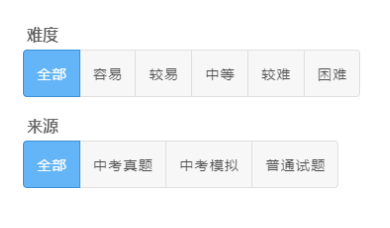
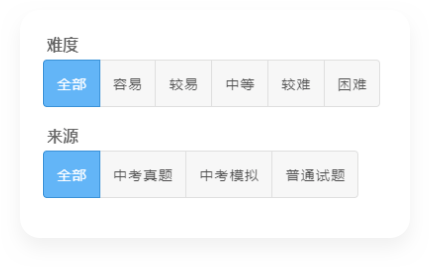
定稿

diff --git a/pages/schoolUse.vue b/pages/schoolUse.vue
@@ -50,13 +50,13 @@
         <div class="schoolUseThreeContentTop">
           <div class="schoolUseThreeContentTopOne"></div>
           <div class="schoolUseThreeContentTopTwo">教学得力帮手</div>
-          <div class="schoolUseThreeContentTopThree">TEACHING HELPER</div>
+          <div class="schoolUseThreeContentTopThree"></div>
         </div>
 
         <div class="schoolUseThreeContentBottom">
           <div class="schoolUseThreeContentBottomItem">
             <div class="schoolUseThreeContentBottomItemTop">
-              <img src="../assets/schoolCutPic/校园_智能组卷.png" style="border-radius:20px;cursor:pointer" @click="showHelpPicOne = true"/>
+              <img src="../assets/schoolCutPic/校园_智能组卷.png" style="border-radius:20px;cursor:pointer;position:absolute;left:-20px;top:-9px" @click="showHelpPicOne = true"/>
               <img src="../assets/schoolCutPic/校园_智能组卷-大.svg" style="border-radius:20px;position:absolute;top:-238px;left:-24px;cursor:pointer" v-if="showHelpPicOne" @click="showHelpPicOne = false"/>
             </div>
             <div class="schoolUseThreeContentBottomItemTitle">智能组卷</div>
@@ -65,8 +65,8 @@
 
           <div class="schoolUseThreeContentBottomItemTwo">
             <div class="schoolUseThreeContentBottomItemTop">
-              <img src="../assets/schoolCutPic/校园_布置作业.svg" style="border-radius:20px;cursor:pointer"  @click="showHelpPicTwo = true"/>
-              <img src="../assets/schoolCutPic/校园_布置作业-大.svg" style="border-radius:20px;position:absolute;top:-238px;left:-24px;cursor:pointer" v-if="showHelpPicTwo" @click="showHelpPicTwo = false"/>
+              <img src="../assets/schoolCutPic/校园_布置作业.png" style="border-radius:20px;cursor:pointer;position:absolute;left:-20px;top:-9px"  @click="showHelpPicTwo = true"/>
+              <img src="../assets/schoolCutPic/校园_布置作业-大.png" style="border-radius:20px;position:absolute;top:-238px;left:-24px;cursor:pointer" v-if="showHelpPicTwo" @click="showHelpPicTwo = false"/>
             </div>
             <div class="schoolUseThreeContentBottomItemTitle">布置作业</div>
             <div class="schoolUseThreeContentBottomItemGang"></div>
@@ -74,8 +74,8 @@
 
           <div class="schoolUseThreeContentBottomItemThree">
             <div class="schoolUseThreeContentBottomItemTop">
-              <img src="../assets/schoolCutPic/校园_学生统计.svg" style="border-radius:20px;cursor:pointer"  @click="showHelpPicThree = true"/>
-              <img src="../assets/schoolCutPic/校园_学生统计-大.svg" style="border-radius:20px;position:absolute;top:-238px;left:-24px;cursor:pointer" v-if="showHelpPicThree" @click="showHelpPicThree = false"/>
+              <img src="../assets/schoolCutPic/校园_学生统计.png" style="border-radius:20px;cursor:pointer;position:absolute;left:-20px;top:-9px"  @click="showHelpPicThree = true"/>
+              <img src="../assets/schoolCutPic/校园_学生统计-大.png" style="border-radius:20px;position:absolute;top:-238px;left:-24px;cursor:pointer" v-if="showHelpPicThree" @click="showHelpPicThree = false"/>
             </div>
             <div class="schoolUseThreeContentBottomItemTitle">学生统计</div>
             <div class="schoolUseThreeContentBottomItemGang"></div>
@@ -90,7 +90,6 @@
           <div class="schoolUseForthContentTopGang"></div>
           <div class="schoolUseForthContentTopTitle">学校管理</div>
           <div class="schoolUseForthContentTopSmallTitle">
-            CAMPUS MANAGEMENT SOLUTION
           </div>
         </div>
 
@@ -103,8 +102,8 @@
             <div style="position:absolute;top:-347px;left:293px;cursor:pointer" @click="showPicOne = true"><img src="../assets/schoolUseIcon.png"/></div>
             <div style="position:absolute;top:-347px;left:776px;cursor:pointer" @click="showPicTwo = true"><img src="../assets/schoolUseIcon.png"/></div>
             
-            <div style="position:absolute;top:-683px;left:134px;cursor:pointer" v-if="showPicOne" @click="showPicOne = false"><img src="../assets/schoolCutPic/classManage.svg"/></div>
-            <div style="position:absolute;top:-683px;left:615px;cursor:pointer" v-if="showPicTwo" @click="showPicTwo = false"><img src="../assets/schoolCutPic/stuAdmin.svg"/></div>
+            <div style="position:absolute;top:-683px;left:134px;cursor:pointer" v-if="showPicOne" @click="showPicOne = false"><img src="../assets/schoolCutPic/生成班级管理.png"/></div>
+            <div style="position:absolute;top:-683px;left:615px;cursor:pointer" v-if="showPicTwo" @click="showPicTwo = false"><img src="../assets/schoolCutPic/生成学生账号.png"/></div>
 
             <div style="position:absolute;top:-171px;left:275px;color:rgba(64, 158, 255, 1);font-size:20px">生成科任老师账号</div>
             <div style="position:absolute;top:-170px;left:760px;text-align:center;color:rgba(64, 158, 255, 1);font-size:20px">上传花名册，<div> 一键生成学生账号</div></div>
@@ -290,7 +289,7 @@ export default {
       .schoolUseThreeContentTopThree {
         font-size: 20px;
         color:#fff;
-
+        height: 30px;
       }
     }
 
@@ -384,6 +383,7 @@ export default {
       }
 
       .schoolUseForthContentTopSmallTitle {
+        height: 40px;
         color: rgba(64, 158, 255, 0.2);
         font-size: 28px;
         margin:5px 0px;

diff --git a/pages/dynamic.vue b/pages/dynamic.vue
@@ -7,7 +7,7 @@
           <div class="banner-1">
           <!-- <img src="../assets/pic1.jpg" width="1200px" style="position:absolute;bottom:-159px;border-radius:15px">
            -->
-           <banner :bannerList="bannerList"/>
+           <banner/>
           </div>
         </v-card>
       </div>
@@ -16,7 +16,7 @@
     <!-- 动态列表部分 -->
     <div style="width:1200px">
       <!-- 列表标题 -->
-      <div style="border-bottom:1px solid rgb(64, 158, 255, 0.3);padding-bottom:50px;margin-bottom:70px">
+      <div style="border-bottom:1px solid rgb(64, 158, 255, 0.3);padding-bottom:30px;margin-bottom:50px">
         <img src="../assets/msgList.png" width="264px">
       </div>
 
@@ -24,10 +24,12 @@
       <div class="listContent" v-for="(item,index) in dtList" :key="index" @click="jumpLink(item)">
         <div style="display:flex;position:relative;width:1100px;">
           <!-- <img src="../assets/smallPics.png" style="margin-right:25px;z-index:10;width:210px"> -->
-          <img src="item.dynamicImgUrl" style="margin-right:25px;z-index:10;width:210px">
-          <!-- 阴影 -->
-          <div style="position:absolute;left:6px;top:13px;width:214px;height:86px;background:#ebf5ff;border-radius:5px">
+          <div style="width:210px;z-index:2;margin-right:25px;height:95px">
+            <img :src="item.dynamicImgUrl" style="width:100%;height:100%" v-if="item.dynamicImgUrl">
           </div>
+          <!-- 阴影 -->
+          <div style="position:absolute;left:6px;top:20px;width:214px;height:86px;background:#ebf5ff;border-radius:5px"></div>
+
           <div style="display:flex;justify-content:space-around;flex-direction:column;">
             <div>
               <span class="listTitle">{{item.dynamicTitle}}</span>
@@ -35,6 +37,7 @@
                 {{ item.dynamicType == 1?'新闻':'公告' }}
               </span>
             </div>
+            
             <div class="listSmallTitle">{{item.dynamicContent | ellipsis}}</div>
           </div>
         </div>
@@ -101,9 +104,9 @@ export default {
         page: this.curPage,
         limit: this.limit
       }
-      const res = await http.get('/getDynamicList', {params:model})
-      // console.log(res)
-      this.dtList = res.data.datas
+      const res = await http.get('/api-generator/website/dynamic/list', {params:model})
+      console.log(res)
+      this.dtList = res.data.data
       this.page = res.data.page
     },
     cutTime (time) {
@@ -185,7 +188,7 @@ export default {
 .listContent {
   display:flex;
   justify-content:space-between;
-  margin-bottom:80px;
+  margin-bottom:60px;
 }
 .listContent:hover {
   cursor: pointer;

diff --git a/components/contactMsg.vue b/components/contactMsg.vue
@@ -67,8 +67,8 @@
 </template>
 
 <script>
-// import http from '../plugins/axios'
-import http from 'axios'
+import http from '../plugins/axios'
+// import http from 'axios'
 export default {
   data () {
     return {
@@ -93,14 +93,17 @@ export default {
     
     // 提交信息事件
     sumbitMsg () {
-      if (this.realName.length > 10 || this.realName.length === 0) {
+      if (this.realName.length > 10 || !this.realName.length) {
         this.text = '请输入0~10位的姓名'
         this.snackbar = true
         return
       }
 
-      if (this.email.length === 0) {
-        this.text = '请输入您的邮箱'
+      // 邮箱限制
+      const emailTest = /.+@.+\..+/.test(this.email)
+
+      if (!this.email.length || !emailTest) {
+        this.text = '请输入正确的邮箱'
         this.snackbar = true
         return
       }
@@ -123,25 +126,15 @@ export default {
         messageEmail: this.email,
         messageContent: this.userMsg
       }
-
-      this.realName = ''
-      this.email = ''
-      this.userMsg = ''
       
-      this.$emit('submitMsg')
-      
-      http.post('/addMessage', model).then(res => {
-s        // console.log(res)
-        // if (res.data.respCode === 0) {
-        //   this.realName = ''
-        //   this.email = ''
-        //   this.userMsg = ''
+      http.post('/api-generator/website/message', model).then(res => {
+        if (!res.data.respCode) {
+          this.realName = ''
+          this.email = ''
+          this.userMsg = ''
 
-        //   this.snackbar = true
-        //   this.color = 'green'
-        //   this.text = '提交成功'
-        // this.$emit('closeDialog')
-        // }
+          this.$emit('submitMsg')
+        }
       })
     }
   }

diff --git a/pages/index.vue b/pages/index.vue
@@ -67,7 +67,7 @@
             <div class="indexFifthContentRightTop">
               <div class="indexFifthContentRightTopOne"></div>
               <div class="indexFifthContentRightTopTwo">TI智能辅导系统</div>
-              <div class="indexFifthContentRightTopThree">TUTOR INTELLIGENCE</div>
+              <!-- <div class="indexFifthContentRightTopThree">TUTOR INTELLIGENCE</div> -->
             </div>
 
             <div class="indexFifthContentRightBottom">
@@ -112,8 +112,8 @@
       <div class="indexForth">
         <div class="indexForthContent">
           <div class="indexForthContentTop"></div>
-          <div class="indexForthContentTitle">选择数学工具，就要高效的</div>
-          <div class="indexForthContentSmallTitle">EFFICIENT MATHEMATICAL TOOLS</div>
+          <div class="indexForthContentTitle">高效数学学习工具</div>
+          <!-- <div class="indexForthContentSmallTitle">EFFICIENT MATHEMATICAL TOOLS</div> -->
           <div>
             <indexTools />
           </div>
@@ -396,6 +396,7 @@ export default {
         font-family: PMZD;
         color: rgba(64, 158, 255, 1);
         font-size: 35px;
+        margin-bottom: 50px;
       }
 
       .indexForthContentSmallTitle {
@@ -431,6 +432,7 @@ export default {
         display: flex;
         align-items: center;
         flex-direction: column;
+        height: 190px;
 
         .indexFifthContentRightTopOne {
           background:#409EFF;

diff --git a/pages/familyUse.vue b/pages/familyUse.vue
@@ -49,8 +49,8 @@
       <div class="familyUseThreeContent">
         <div class="familyUseThreeContentTop">
           <div class="familyUseThreeContentTopOne"></div>
-          <div class="familyUseThreeContentTopTwo">选择数学工具，就要高效的</div>
-          <div class="familyUseThreeContentTopThree">EFFICIENT</div>
+          <div class="familyUseThreeContentTopTwo">高效数学学习工具</div>
+          <!-- <div class="familyUseThreeContentTopThree">EFFICIENT</div> -->
         </div>
 
         <div class="familyUseThreeContentBottom">
@@ -96,7 +96,7 @@
         <div class="familyUseForthContentTop">
           <div class="familyUseForthContentTopOne"></div>
           <div class="familyUseForthContentTopTwo">智能测评</div>
-          <div class="familyUseForthContentTopThree">INTELLIGENT EVALUATION</div>
+          <div class="familyUseForthContentTopThree" ></div>
         </div>
 
         <div class="familyUseForthContentBottom">
@@ -451,6 +451,7 @@ export default {
 
       .familyUseForthContentTopThree {
         font-size: 20px;
+        height: 20px;
         color:rgba(232, 240, 248, 1);
       }
     }

diff --git a/components/banner.vue b/components/banner.vue
@@ -10,9 +10,7 @@
         class="carouselImg"
         v-for="(item, i) in bannerList"
         :key="i"
-        nuxt
-        :src="item.bannerUrl"
-        @click="jump(item)"
+        :src="item.src"
       >
       <!-- <img :src="item.bannerUrl" > -->
       </v-carousel-item>
@@ -22,23 +20,25 @@
 
 <script>
 export default {
-  props: {
-    bannerList: {
-      type: Array,
-      default: () => []
-    }
-  },
   data () {
     return {
-      type: 0
+      type: 0,
+      bannerList: [
+        {
+          src: 'https://feiyan-img.oss-cn-shenzhen.aliyuncs.com/83a63373edc34ea9afff1daadd491a87.jpg',
+        },
+        {
+          src: 'https://feiyan-img.oss-cn-shenzhen.aliyuncs.com/0922279909af4693b686ee28488338f8.jpg',
+        }
+      ]
     }
   },
   methods: {
-    jump (item) {
-      if (item.jumpUrl) {
-        window.open(item.jumpUrl)
-      }
-    }
+    // jump (item) {
+    //   if (item.jumpUrl) {
+    //     window.open(item.jumpUrl)
+    //   }
+    // }
   }
 }
 </script>

diff --git a/plugins/axios.js b/plugins/axios.js
@@ -1,7 +1,7 @@
 import axios from 'axios'
 
 let http = axios.create()
-// http.defaults.baseURL = 'http://10.10.100.216:9900'
-http.defaults.baseURL = 'https://www.feiyanmath.com'
+http.defaults.baseURL = 'http://10.10.100.216:9900'
+// http.defaults.baseURL = 'https://www.feiyanmath.com'
 
 export default http

diff --git a/nuxt.config.js b/nuxt.config.js
@@ -25,7 +25,7 @@ module.exports = {
     ]
   },
   server: {
-    port: 3001, // default: 3000
+    port: 8081, // default: 3000
     host: '10.10.100.225' // default: localhost
     // host: '127.0.0.1'
   },
